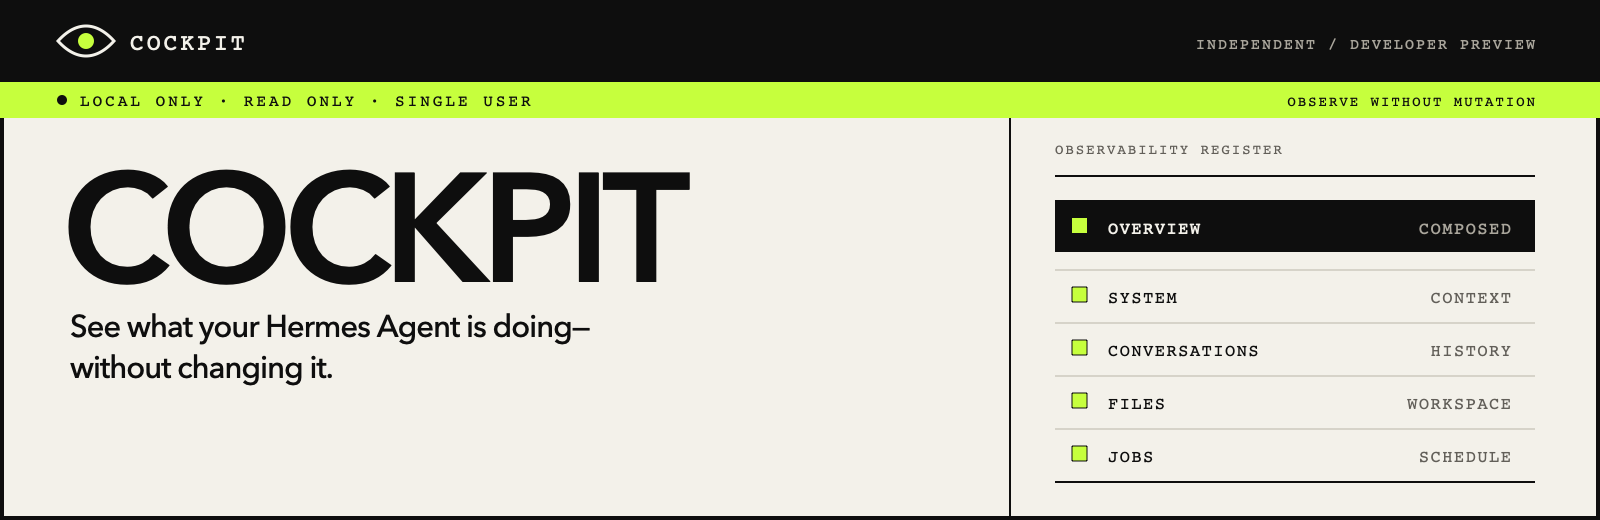
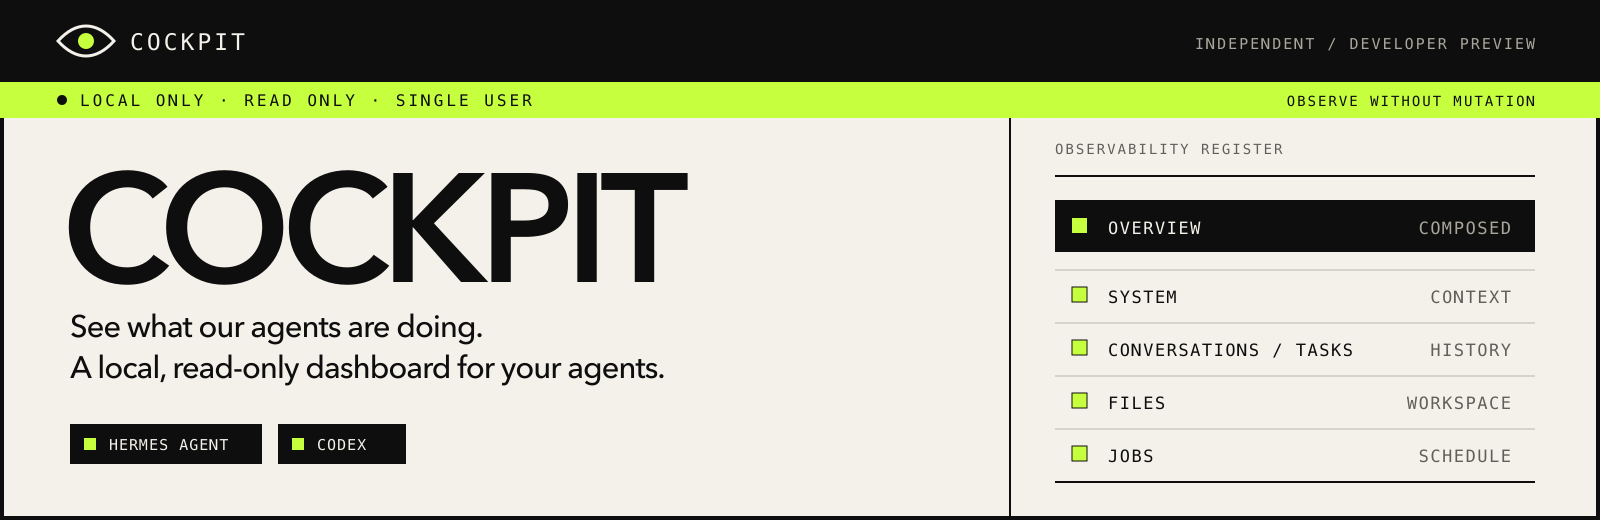
docs: align branding and setup with multi-agent preview (#4)

diff --git a/README.md b/README.md
@@ -1,42 +1,48 @@
 <p align="center">
-  <img src="docs/assets/cockpit-banner.png" alt="Cockpit — local, read-only observability for Hermes Agent" width="100%">
+  <img src="docs/assets/cockpit-banner.png" alt="Cockpit — See what our agents are doing. Supports Hermes Agent and Codex." width="100%">
 </p>
 
 # Cockpit
 
-**A local, read-only observability console for one Hermes Agent.**
+**A local, read-only dashboard for your agents.**
 
 [![Verify](https://github.com/swen-chan/cockpit/actions/workflows/verify.yml/badge.svg?branch=main)](https://github.com/swen-chan/cockpit/actions/workflows/verify.yml)
 [![License: MIT](https://img.shields.io/badge/license-MIT-c6ff3d?style=flat-square&labelColor=0e0e0e)](LICENSE)
 ![Node.js 24+](https://img.shields.io/badge/Node.js-24%2B-c6ff3d?style=flat-square&labelColor=0e0e0e)
 
-Cockpit brings recent activity, active context, visible workspace files, and
-scheduled jobs into one browser interface. It inspects your local agent without
-sending messages, editing files, controlling jobs, or creating a second
-application database.
+Cockpit brings local agent activity, conversations or development tasks,
+current context, and approved workspace files into one browser interface.
+Available views depend on the agent; scheduled jobs are a Hermes feature.
+Cockpit does not send messages, resume tasks, edit files, control jobs, or
+create a second persistent application database.
 
 > [!IMPORTANT]
-> **v0.1 is a developer preview.** Its built-in source preset targets the
-> published local data layout of [Hermes Agent v0.21.2](https://github.com/NousResearch/hermes-agent/releases/tag/v2026.9.11)
-> (release `v2026.9.11`) and is tested with synthetic data. It is not a
-> universal Hermes installer or an automatic source-discovery tool.
+> **Developer preview, not universal agent support.** The v0.1 Hermes preset
+> targets [Hermes Agent v0.21.2](https://github.com/NousResearch/hermes-agent/releases/tag/v2026.9.11)
+> (release `v2026.9.11`). The current source also includes Codex integration as
+> **unreleased v0.2 development**, pinned to Codex CLI `0.145.0`.
+> Automated regression tests use synthetic data; limited local acceptance is
+> not a guarantee for other installations. There is no import wizard or
+> automatic source discovery.
 
 Cockpit is an independent open-source project. It is not affiliated with or
-endorsed by [Nous Research](https://nousresearch.com/) or the
-[Hermes Agent](https://github.com/NousResearch/hermes-agent) project.
+endorsed by [Nous Research](https://nousresearch.com/), the
+[Hermes Agent](https://github.com/NousResearch/hermes-agent) project, or OpenAI.
 
 ## What you can inspect
 
-| Surface           | What it answers                                                         |
-| ----------------- | ----------------------------------------------------------------------- |
-| **Overview**      | What is happening across the resolved local sources?                    |
-| **System**        | Which profile, context, skills, tools, and source documents are active? |
-| **Conversations** | What happened in eligible interactive sessions?                         |
-| **Files**         | Which approved workspace files are visible, and what do they contain?   |
-| **Jobs**          | What is scheduled, what ran recently, and what state is each job in?    |
+| View                      | Hermes Agent                                          | Codex preview                                                                       |
+| ------------------------- | ----------------------------------------------------- | ----------------------------------------------------------------------------------- |
+| **Overview**              | Recent activity and source status                     | Task index and available source status                                              |
+| **System**                | Profile, context, skills, tools, and source documents | Current approved guidance documents, not a reconstruction of past task instructions |
+| **Conversations / Tasks** | Eligible interactive conversations                    | Tasks with project labels, messages, and folded, filtered Process activity          |
+| **Files**                 | Files inside the approved Hermes workspace            | Optional; only inside a separately approved Codex workspace                         |
+| **Jobs**                  | Scheduled jobs and observed runs                      | Not available                                                                       |
 
 Every surface is intentionally bounded and read-only. Source failures stay
 local to the affected section instead of taking down the entire interface.
+An agent's presence does not imply every view is available. Tasks are units of
+work, not project folders; a task's project label does not grant Files access.
 
 ## Developer setup
 
@@ -44,7 +50,11 @@ local to the affected section instead of taking down the entire interface.
 
 - Node.js 24 or newer
 - pnpm 10.28.1
-- Hermes Agent v0.21.2 (`v2026.9.11`), or a custom source manifest
+- For Hermes: Hermes Agent v0.21.2 (`v2026.9.11`), or a custom source manifest
+- For Codex: macOS or Linux, an existing local Codex home, and a trusted Codex
+  CLI **exactly `0.145.0`** on the `PATH` used to start Cockpit. Other versions
+  are rejected by this preview; installing the desktop app alone is not this
+  prerequisite. Check with `codex --version`.
 
 Clone and install:
 
@@ -54,7 +64,13 @@ cd cockpit
 pnpm install
 ```
 
-Create an ignored `.env.local`:
+### Choose your local sources
+
+Create an ignored `.env.local` using one of the options below. Replace the
+example paths with your own absolute paths; do not use a literal `~`.
+Neither agent requires the other to be installed.
+
+#### Hermes only
 
 ```dotenv
 COCKPIT_WORKSPACE_ROOT=/absolute/path/to/your/hermes/workspace
@@ -67,22 +83,62 @@ The preset supplies Cockpit's database, table, and field mappings. You still
 choose `COCKPIT_WORKSPACE_ROOT` explicitly because it grants Files access to
 that directory; Cockpit never infers this permission from conversation data.
 
-Start Cockpit:
+#### Codex only (preview)
+
+```dotenv
+COCKPIT_CODEX_HOME=/absolute/path/to/your/.codex
+# Optional: grant Files and workspace-guidance access to one project directory.
+# COCKPIT_CODEX_WORKSPACE_ROOT=/absolute/path/to/your/project
+```
+
+This shows Overview, System, and Tasks. Files appears only when
+`COCKPIT_CODEX_WORKSPACE_ROOT` is explicitly configured; there is no Codex Jobs
+view. Choose a narrow workspace, not your entire home directory. The configured
+Codex home must already contain the supported local task database and history;
+Cockpit does not create, import, or repair them.
+
+Current `AGENTS.override.md` / `AGENTS.md` guidance is inspected from the Codex
+home and, when configured, the approved workspace. An optional
+`COCKPIT_CODEX_CUSTOM_GUIDANCE` names one relative file inside that workspace;
+it is not a new absolute-path permission or a claim that Codex used that file
+in a past task.
+
+#### Hermes and Codex together
+
+```dotenv
+COCKPIT_WORKSPACE_ROOT=/absolute/path/to/your/hermes/workspace
+COCKPIT_SOURCE_PRESET=hermes-v2026.9.11
+COCKPIT_CODEX_HOME=/absolute/path/to/your/.codex
+# Optional: grant Codex Files access independently of the Hermes workspace.
+# COCKPIT_CODEX_WORKSPACE_ROOT=/absolute/path/to/your/codex/project
+# Optional: initial fallback when there is no valid remembered selection.
+COCKPIT_DEFAULT_PANEL=hermes
+```
+
+Use the Agent switcher to change panels. Opening `/` remembers the last
+successfully opened panel in that browser; there is no mandatory startup picker.
+An explicit `/agents/hermes` or `/agents/codex` URL takes priority. Without a
+valid remembered selection, the default is Hermes when both are configured,
+or Codex when it is the only panel. `COCKPIT_DEFAULT_PANEL` can override that
+fallback with a configured panel's name (`hermes` or `codex`).
+
+### Start Cockpit
 
 ```bash
 pnpm dev
 ```
 
-Open [http://127.0.0.1:3000](http://127.0.0.1:3000). A healthy setup shows the
-five read-only surfaces above. If your browser or shell uses a proxy, bypass it
-for `localhost`, `127.0.0.1`, and `::1`.
+Open [http://127.0.0.1:3000](http://127.0.0.1:3000). Check the configured panel's
+available views, then open a conversation or task to inspect its details.
+Restart Cockpit after changing `.env.local`. If your browser or shell uses a
+proxy, bypass it for `localhost`, `127.0.0.1`, and `::1`.
 
 > [!WARNING]
-> Do not expose v0.1 through a LAN binding, port forward, tunnel, or reverse
+> Do not expose Cockpit through a LAN binding, port forward, tunnel, or reverse
 > proxy. It is designed for one trusted operator on the same machine.
 
 <details>
-<summary><strong>Custom layouts and configuration notes</strong></summary>
+<summary><strong>Hermes custom layouts and configuration notes</strong></summary>
 
 If your Hermes layout is not the supported preset, copy
 `cockpit.local.example.json` to the ignored `cockpit.local.json`, replace its
@@ -109,8 +165,9 @@ Hermes home resolution follows this order:
 3. the profile named by `~/.hermes/active_profile`
 4. the default `~/.hermes` home
 
-`COCKPIT_WORKSPACE_ROOT` is a separate, mandatory approved root for Files and
-workspace-owned System documents.
+For the Hermes panel, `COCKPIT_WORKSPACE_ROOT` is a separate, mandatory approved
+root for Files and workspace-owned System documents. It does not grant Codex
+workspace access.
 
 </details>
 
@@ -118,8 +175,11 @@ workspace-owned System documents.
 
 - Cockpit binds to `127.0.0.1` and does not provide authentication or TLS.
 - Hermes sources are opened through server-only, bounded, read-only adapters.
+- Codex task inspection uses bounded, disposable local snapshots. App Server
+  receives only Cockpit-owned copies; Cockpit never resumes a task or converts
+  the original history. See the [Codex reader notes](docs/codex-paginated-history.md).
 - Browser responses are constructed from strict allowlists; credential files,
-  raw configuration, tool payloads, and private persistence mappings are
+  raw configuration, raw tool payloads, and private persistence mappings are
   excluded.
 - Markdown and HTML-like content is rendered inertly. Remote images and active
   HTML are not loaded.
@@ -127,13 +187,13 @@ workspace-owned System documents.
 SQLite may create an empty `-wal` file or create/update a disposable `-shm`
 wal-index while a source is opened with `SQLITE_OPEN_READONLY` and `query_only`.
 This narrow coordination behavior does not permit Cockpit to change a main
-database, an existing non-empty WAL, business records, or other Hermes content.
+database, an existing non-empty WAL, business records, or other agent content.
 
 Read [SECURITY.md](SECURITY.md) before changing the trust boundary, and use its
 private reporting channel for potential vulnerabilities. Do not publish tokens,
 local paths, conversations, databases, or private configuration in an issue.
 
-## Production
+## Local production build
 
 Build first, then start the same loopback-only application:
 
@@ -141,6 +201,9 @@ Build first, then start the same loopback-only application:
 pnpm build
 pnpm start
 ```
+
+This runs on your computer; it does not publish the dashboard or your agent data
+to the internet.
 
 ## Development and verification
 
@@ -160,24 +223,34 @@ reuse a real server on port 3000.
 
 For a focused issue or pull request, keep changes inside the current local,
 read-only, single-user boundary, run both verification commands, and never
-attach real Hermes data or machine-specific configuration.
+attach real agent data or machine-specific configuration.
 
 The implemented requirements, technical design, and acceptance history live in
-[`specs/cockpit-v0.1`](specs/cockpit-v0.1/).
+[`specs/cockpit-v0.1`](specs/cockpit-v0.1/) and
+[`specs/cockpit-v0.2-codex`](specs/cockpit-v0.2-codex/). These retain their
+version-specific scope and acceptance history; merged development is not a
+new release announcement.
 
 <details>
 <summary><strong>Known limitations</strong></summary>
 
-- v0.1 supports one trusted local operator and has no authentication or TLS.
+- Cockpit supports one trusted local operator and has no authentication or TLS.
+  Multiple agent panels do not add multi-user access.
 - The built-in preset targets Hermes Agent v0.21.2 release `v2026.9.11`.
   Other layouts require the advanced custom manifest and remain best-effort
   developer integrations.
-- Independent source reads may show different observation times while Hermes is
-  changing; Cockpit does not create a canonical snapshot.
+- Codex preview requires CLI `0.145.0` and the supported local storage layout.
+  Paginated task details show local recorded history only; inherited history
+  is not followed. Process is a filtered activity view, not an unrestricted
+  raw log: raw reasoning, command strings, and tool arguments are not exposed.
+- Source reads can observe different times while an agent is changing. Codex
+  copies are per-operation snapshots, not a shared cross-agent snapshot.
+  A busy source may require a manual retry; automatic retry is not implemented.
 - Lists and previews are deliberately bounded. Unsupported, binary, and
-  oversized files expose metadata only.
+  oversized workspace files expose metadata only. Codex task rollout files
+  over 32 MiB fail explicitly rather than loading without a limit.
 - Cross-conversation search, stable row-level deep links, mutation controls,
-  remote access, cloud hosting, and multi-user operation are outside v0.1.
+  remote access, cloud hosting, and multi-user operation remain out of scope.
 - All dates currently display in the fixed `Asia/Shanghai` time zone.
 
 Any future remote, multi-user, browser-configurable-source, plugin-controlled,

diff --git a/SECURITY.md b/SECURITY.md
@@ -13,7 +13,7 @@ Reporting for this repository. Do not open a public issue with exploit details.
 Include the affected version or commit, operating system, impact, and a minimal
 reproduction using synthetic data. Never upload real tokens, conversations,
 databases, configuration, local paths, screenshots, or logs from a personal
-Hermes instance.
+agent installation, including Hermes or Codex.
 
 ## v0.1 trust model
 
@@ -32,7 +32,7 @@ Examples of in-scope security issues include:
 
 - credentials or non-allowlisted private data reaching logs or browser DTOs;
 - a browser-controlled path escaping the approved workspace;
-- Cockpit changing Hermes business data or source content;
+- Cockpit changing agent business data or source content;
 - bypassing the loopback Host or Origin boundary;
 - source content executing active HTML or triggering unexpected remote loads.
 
@@ -47,6 +47,12 @@ the supported-version statement above. Its reader is limited to the explicitly
 configured local Codex home, the pinned Codex CLI version, and the fixed
 `state_5.sqlite` source. Cockpit prepares a disposable snapshot by opening that
 database with `SQLITE_OPEN_READONLY`, `fileMustExist`, and `query_only`.
+
+`COCKPIT_CODEX_HOME`, `COCKPIT_CODEX_WORKSPACE_ROOT`,
+`COCKPIT_CODEX_CUSTOM_GUIDANCE`, and `COCKPIT_DEFAULT_PANEL` are trusted,
+operator-controlled startup settings, not browser-supplied source paths.
+Selecting an already configured panel does not grant access to another path.
+Multiple panels still serve one trusted local operator, not multiple users.
 
 That read may use only SQLite's narrow coordination behavior: SQLite may create
 or restore an empty `-wal` companion and may create or update the disposable
